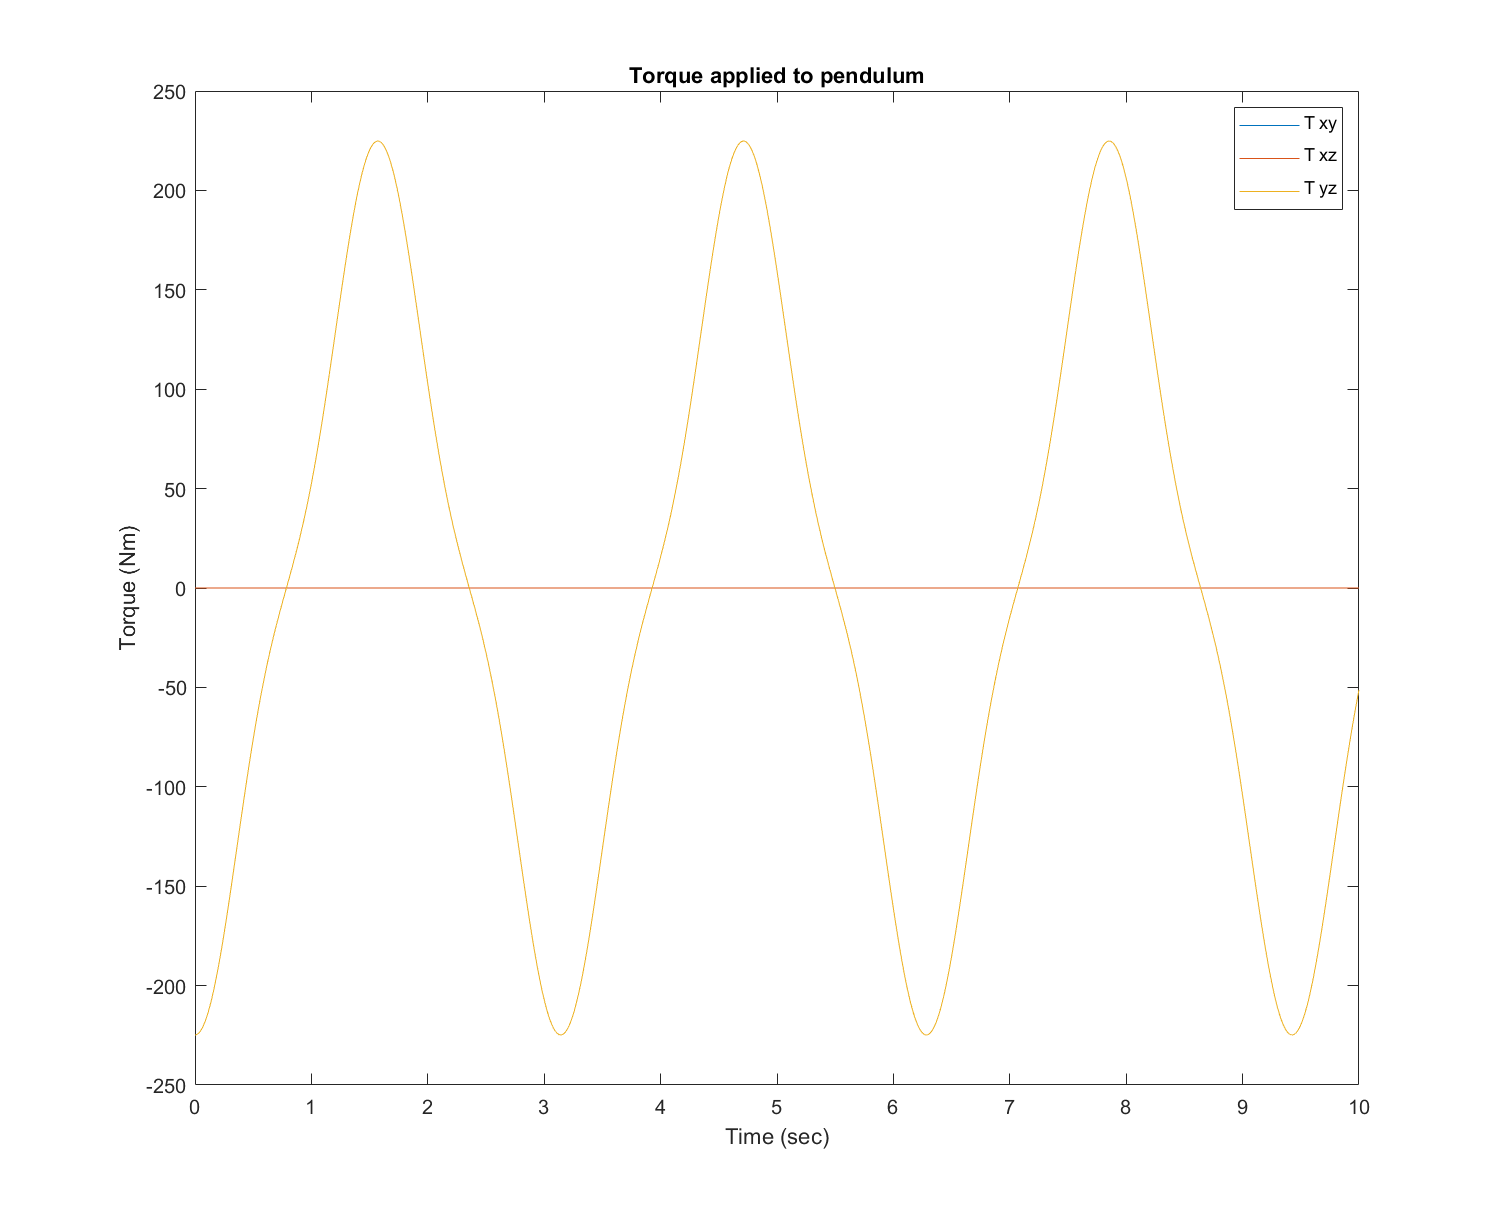
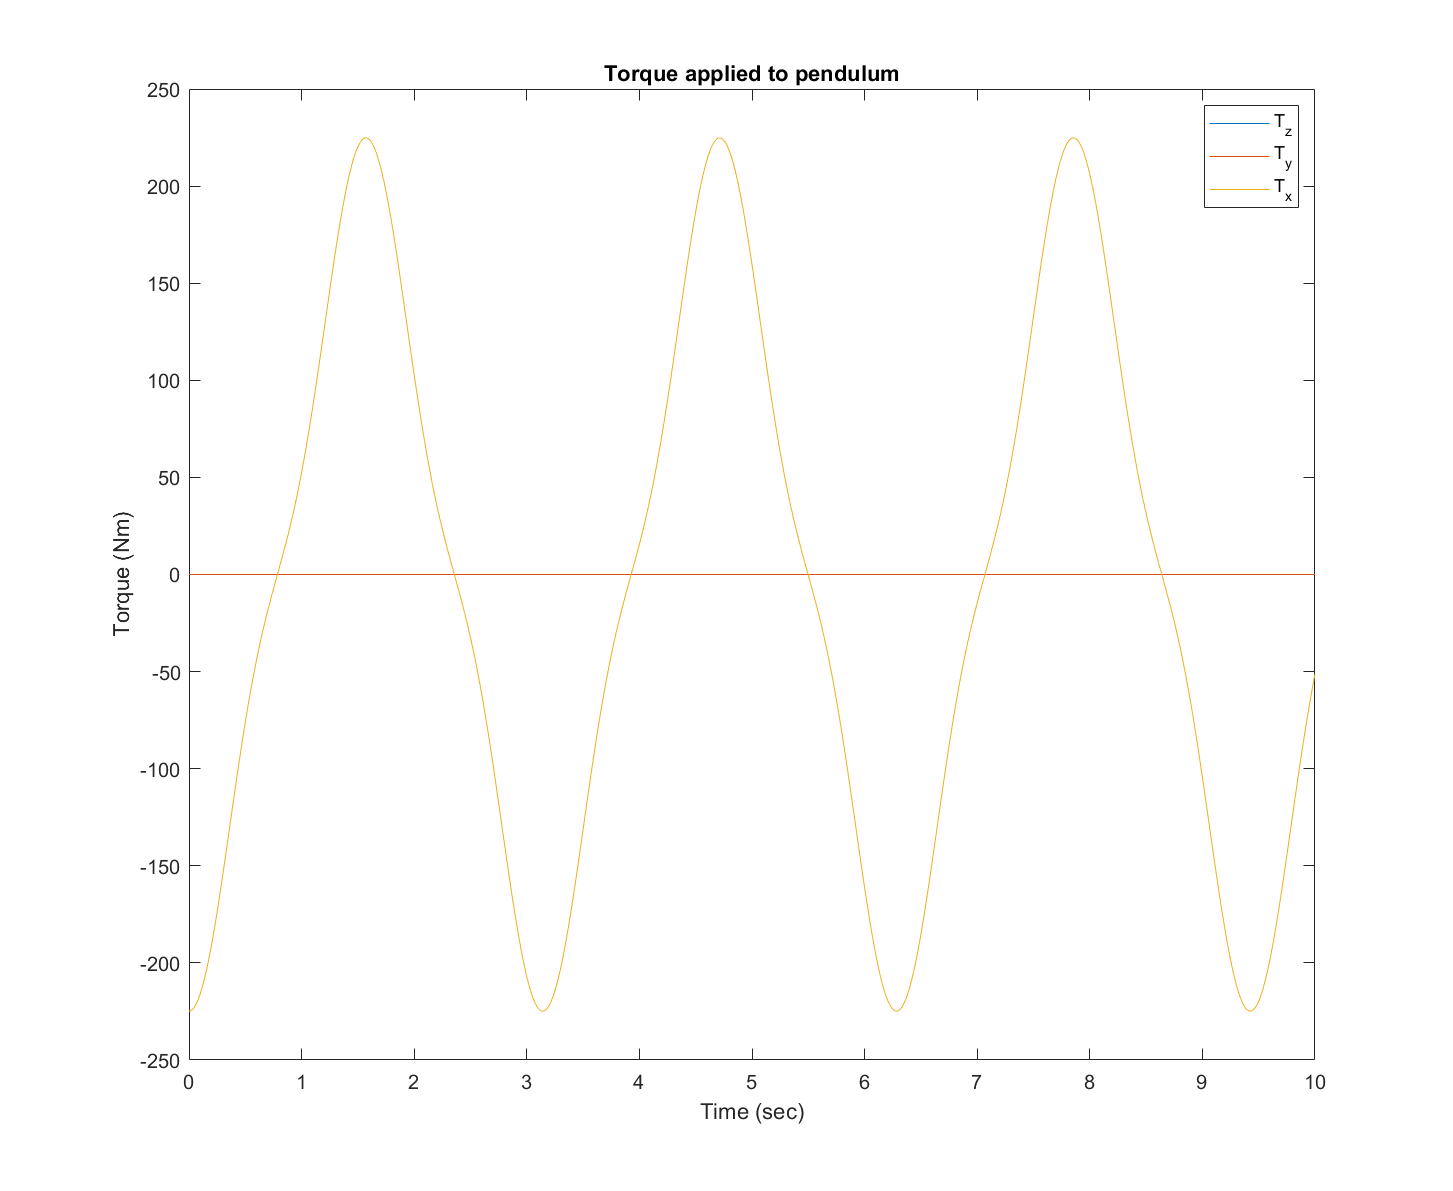
Add A7P3

diff --git a/HW7/simEngine3D_A7P3.m b/HW7/simEngine3D_A7P3.m
@@ -1,0 +1,148 @@
+% This is the main script to be excuted for Assignment 7 Problem 3
+% convergence analysis of an IVP.
+
+clear
+
+
+% Define the time duration
+t_start = 1;
+t_end = 10;
+
+% step size
+h = [0.001 0.002 0.004 0.005 0.008 0.009 0.01 0.015 0.02];
+
+%  Initial value
+y_0 = 1;
+
+% ground trueth value at t=10
+y_10 = 1/10+tan(1/10+pi-1)/10^2;
+
+% First use Backward Euler
+
+% record Backward Euler solution error
+error_BE = zeros(length(h),1);
+
+for k=1:length(h)
+    
+    % Initialize
+    counts = length(t_start:h(k):t_end);
+    t=t_start:h(k):t_end;
+    y = zeros(counts,1);
+    y(1) = y_0;
+    eps = 1e-8; % tolerance
+    itCountMax = 50; % max iteration
+    
+    for i=2:counts
+        
+        % start point
+        y_i = y(i-1);
+        
+        for j = 1:itCountMax
+            % Step 1: compute correction
+            
+            % jacobian
+            J = 1 + 2*h(k)*y_i;
+            % g(y)
+            g = y_i-y(i-1)-h(k)*(-y_i^2-1/t(i)^4);
+            
+            delta = -g/J;
+            
+            % Step 2: apply correction
+            y_i = y_i + delta;
+            
+            % Step 3: compute norm residual
+            res = norm(delta);
+            
+            % Step 4
+            if res < eps
+                break;
+            end
+        end
+        
+        if j >= itCountMax
+            error('Maximum number of iterations reached');
+        end
+        y(i) = y_i;
+    end
+    error_BE(k) = abs(y(end)-y_10);
+end
+
+
+% Secondly use 4th order BDF
+
+% Define the coefficients
+beta = 12/25;
+a1 = -48/25;
+a2 = 36/25;
+a3 = -16/25;
+a4 = 3/25;
+
+% record SBDF Euler solution error
+error_BDF = zeros(length(h),1);
+
+for k=1:length(h)
+    
+    % Initialize
+    counts = length(t_start:h(k):t_end);
+    t=t_start:h(k):t_end;
+    y = zeros(counts,1);
+    y(1) = y_0;
+    y(2) = 1/t(2)+tan(1/t(2)+pi-1)/t(2)^2;
+    y(3) = 1/t(3)+tan(1/t(3)+pi-1)/t(3)^2;
+    y(4) = 1/t(4)+tan(1/t(4)+pi-1)/t(4)^2;
+    
+    eps = 1e-10; % tolerance
+    itCountMax = 50; % max iteration
+    
+    for i=5:counts
+        
+        % start point
+        y_i = y(i-1);
+        
+        for j = 1:itCountMax
+            % Step 1: compute correction
+            
+            % jacobian
+            J = 1 + 2*beta*h(k)*y_i;
+            % g(y)
+            g = y_i+a1*y(i-1)+a2*y(i-2)+a3*y(i-3)+a4*y(i-4)-beta*h(k)*(-y_i^2-1/t(i)^4);
+            delta = -g/J;
+            
+            % Step 2: apply correction
+            y_i = y_i + delta;
+            
+            % Step 3: compute norm residual
+            res = norm(delta);
+            
+            % Step 4
+            if res < eps
+                break;
+            end
+        end
+        
+        if j >= itCountMax
+            error('Maximum number of iterations reached');
+        end
+        y(i) = y_i;
+    end
+    error_BDF(k) = abs(y(end)-y_10);
+end
+
+figure
+%plot(log(h),log(error_BE),'r',log(h),log(error_BDF),'b');
+subplot(2,1,1)
+plot(h,error_BE);
+title('Backward Euler convergence plot');
+ylabel('error (|y(t_n)-y_n|)');
+xlabel('h');
+subplot(2,1,2)
+plot(h,error_BDF);
+title('4th order BDF convergence plot plot');
+ylabel('error (|y(t_n)-y_n|)');
+xlabel('h');
+
+figure
+plot(log(h),log(error_BE),'r',log(h),log(error_BDF),'b');
+title('Convergence plot (log)');
+ylabel('log(error)');
+xlabel('log(h)');

diff --git a/HW7/simEngine3D_A7P1.m b/HW7/simEngine3D_A7P1.m
@@ -24,4 +24,4 @@ plot(t,torque);
 title('Torque applied to pendulum');
 xlabel('Time (sec)');
 ylabel('Torque (Nm)');
-legend('T_ xy','T_ xz','T_ yz');
+legend('T_z','T_y','T_x');
